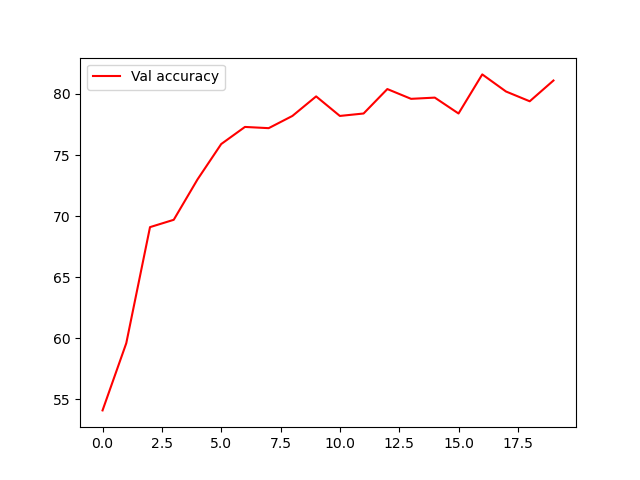
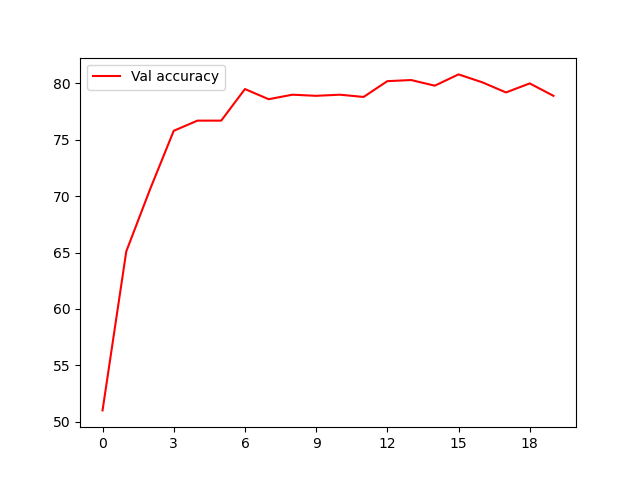
Images update + Early Stop renaming variables
DONE:
- implemented a "tolerance" control to avoid pointless weights update

TO DO:
- increase to 50 epochs
- run with ES
- save and load relative images

diff --git a/ex3_convnet.py b/ex3_convnet.py
@@ -7,6 +7,7 @@ import numpy as np
 import copy
 
 import matplotlib.pyplot as plt
+from matplotlib.ticker import MaxNLocator
 
 
 import os
@@ -335,26 +336,31 @@ for epoch in range(num_epochs):
         #################################################################################
 
         # *****START OF YOUR CODE (DO NOT DELETE/MODIFY THIS LINE)*****
-        if epoch == 0:
-            patience = 2 
-            best_val_loss = loss_val[-1] 
-            idBestEpoch = 0
-            epochs_with_no_improve = 0
+        withEarlyStop = True
+        p = 2
+        tolerance = 1e-5
 
-        if loss_val[-1] < best_val_loss:
-            best_model = copy.deepcopy(model)
-            idBestEpoch = epoch+1 # store the index of the best epoch so far
-            epochs_with_no_improve = 0
-            patience = 2
-            best_val_loss= loss_val[-1]
+        if withEarlyStop:
+            if epoch == 0:
+                patience = p 
+                best_val_loss = loss_val[-1] 
+                idBestEpoch = 0
+                epochs_with_no_improve = 0
 
-        else:
-            epochs_with_no_improve += 1
-            # Check early stopping condition
-            # if epochs_with_no_improve == patience:
-            if epochs_with_no_improve == patience:
-                print('Early stop at epoch {}!\nRestoring the best model.'.format(epoch+1))
-                break
+            if (loss_val[-1]-best_val_loss >= tolerance) and (loss_val[-1]-best_val_loss > 0):
+                best_model = copy.deepcopy(model)
+                idBestEpoch = epoch+1 # store the index of the best epoch so far (don't know if)
+                epochs_with_no_improve = 0
+                patience = p
+                best_val_loss= loss_val[-1]
+
+            else:
+                epochs_with_no_improve += 1
+                # Check early stopping condition
+                # if epochs_with_no_improve == patience:
+                if epochs_with_no_improve == patience:
+                    print('Early stop at epoch {}!\nRestoring the best model.'.format(epoch+1))
+                    break
 
         
 
@@ -367,20 +373,21 @@ for epoch in range(num_epochs):
 model.eval()
 
 
+print("loss_train len: {}".format(len(loss_train)))
 
 plt.figure(2)
+plt.axes().xaxis.set_major_locator(MaxNLocator(integer=True))
 plt.plot(loss_train, 'r', label='Train loss')
 plt.plot(loss_val, 'g', label='Val loss')
 plt.legend()
 plt.show()
 
 plt.figure(3)
+plt.axes().xaxis.set_major_locator(MaxNLocator(integer=True))
 plt.plot(accuracy_val, 'r', label='Val accuracy')
 plt.legend()
 plt.show()
 
-# Q1.c Compare the filters before and after training.
-VisualizeFilter(model) # filters after training
 
 #################################################################################
 # TODO: Q2.b Implement the early stopping mechanism to load the weights from the#
@@ -388,7 +395,7 @@ VisualizeFilter(model) # filters after training
 #################################################################################
 # *****START OF YOUR CODE (DO NOT DELETE/MODIFY THIS LINE)*****
 
-
+model = copy.deepcopy(best_model)
 
 # *****END OF YOUR CODE (DO NOT DELETE/MODIFY THIS LINE)*****
 
@@ -411,10 +418,8 @@ with torch.no_grad():
 
 
 # Q1.c: Implementing the function to visualize the filters in the first conv layers.
-# Visualize the filters before training
+# Visualize the filters after training
 VisualizeFilter(model)
-
-
 
 # Save the model checkpoint
 #torch.save(model.state_dict(), 'model.ckpt')
